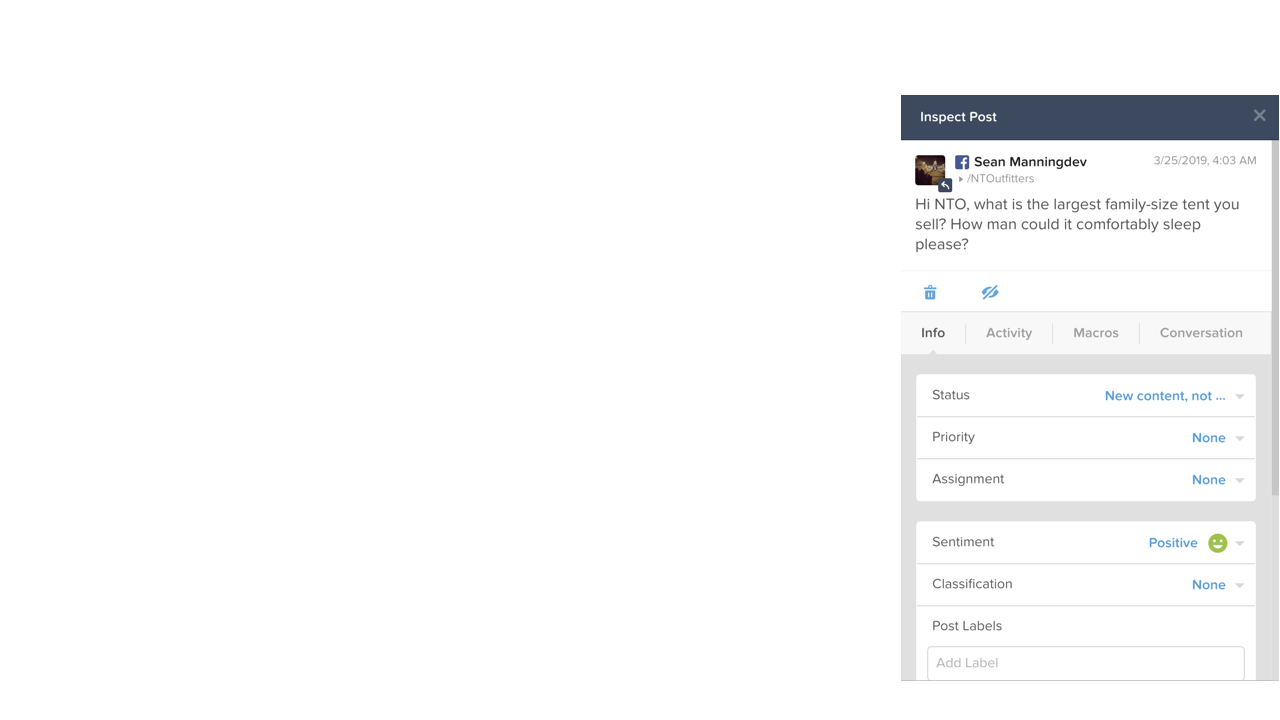
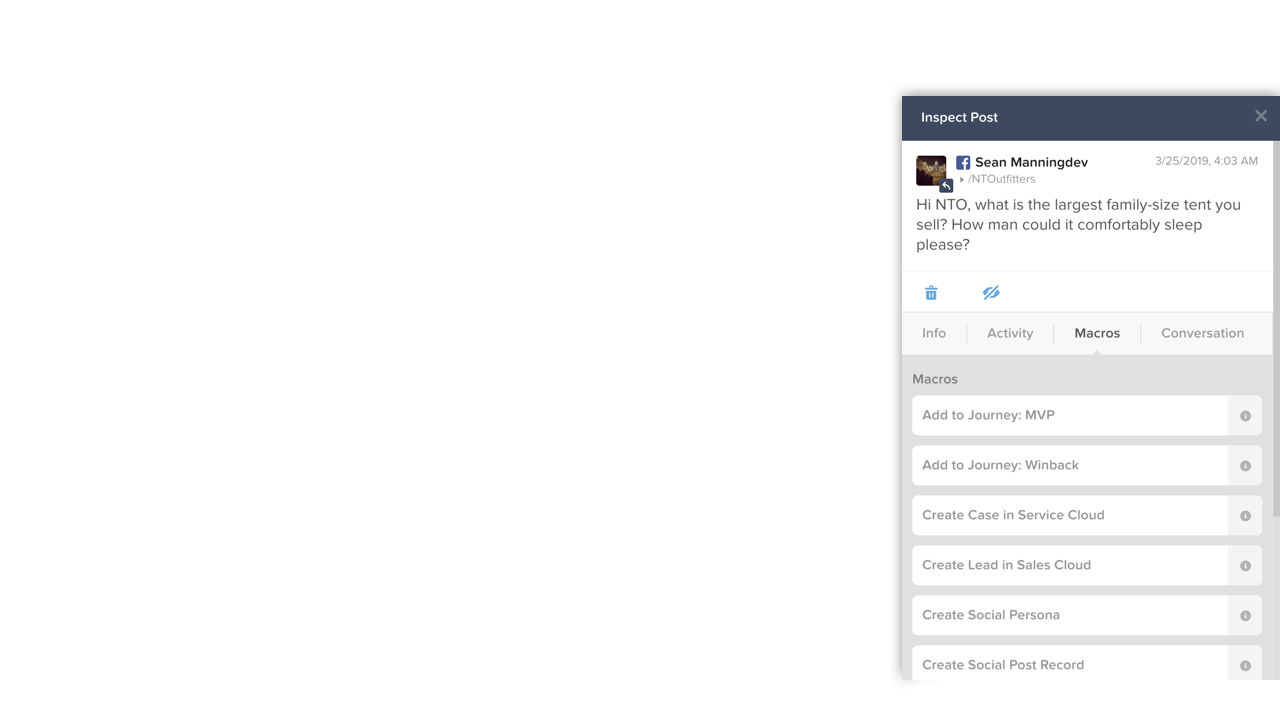
WIP

diff --git a/magick-flows-web-root/magick-flows/know/assets/styles.css b/magick-flows-web-root/magick-flows/know/assets/styles.css
@@ -1,7 +1,7 @@
 /* This is done to preload images and reduce load flicker */
 body::after {
   backface-visibility: visible;
-  content: url("/magick-flows/know/main/0000___ID=mc-homepage___NOTES=Notes-go-here__Separate-with-two-underscores__Do-not-use-spaces.png") url("/magick-flows/know/main/0500___ID=mc-homepage-social-hover___NOTES=Notes-go-here__Separate-with-two-underscores__Do-not-use-spaces.png") url("/magick-flows/know/main/1000___ID=social-analyze-dashboard___NOTES=Click-publish-to-go-to-calendar.png") url("/magick-flows/know/main/1500___ID=social-publish-calendar___NOTES=Click-Thursday-1pm-to-show-social-network-menu.png") url("/magick-flows/know/main/2000___ID=social-publish-post___NOTES=Choose-Facebook.png") url("/magick-flows/know/main/2500___ID=social-facebook-post___NOTES=Click-Post-to-input-field.png") url("/magick-flows/know/main/3000___ID=social-facebook-post___NOTES=Click-Facebook-from-dropdown.png") url("/magick-flows/know/main/3500___ID=social-facebook-post___NOTES=Click-into-main-text-area__Fake-content-will-appear.png") url("/magick-flows/know/main/3510___ID=social-facebook-post___NOTES=Click-Upload-Images.png") url("/magick-flows/know/main/4000___ID=social-facebook-post___DATA=show-drawer-from-top___NOTES=Choosing-an-image.png") url("/magick-flows/know/main/4500___ID=social-facebook-post-image-selected___NOTES=Click-Engage-from-blue-navbar.png") url("/magick-flows/know/main/5000___ID=social-engage___NOTES=Notes-go-here__Select-community-tab-in-footer.png") url("/magick-flows/know/main/5500___ID=social-engage-community___NOTES=Click-top-left-card__A-drawer-will-open.png") url("/magick-flows/know/main/6000___ID=social-engage-inspect___DATA=show-drawer-from-right___NOTES=Choose-Create-Case-in-Service-Cloud.png") url("/magick-flows/know/main/6500___ID=social-engage-macros___NOTES=Notes-go-here__Separate-with-two-underscores__Do-not-use-spaces.png") url("/magick-flows/know/assets/social-engage-inspect___drawer-from-right.png") url("/magick-flows/know/assets/social-facebook-post___drawer-from-top.png") url("/magick-flows/know/assets/social-facebook-post-image-to-choose.jpg");
+  content: url("/magick-flows/know/main/0000___ID=mc-homepage___NOTES=Notes-go-here__Separate-with-two-underscores__Do-not-use-spaces.png") url("/magick-flows/know/main/0500___ID=mc-homepage-social-hover___NOTES=Notes-go-here__Separate-with-two-underscores__Do-not-use-spaces.png") url("/magick-flows/know/main/1000___ID=social-analyze-dashboard___NOTES=Click-publish-to-go-to-calendar.png") url("/magick-flows/know/main/1500___ID=social-publish-calendar___NOTES=Click-Thursday-1pm-to-show-social-network-menu.png") url("/magick-flows/know/main/2000___ID=social-publish-post___NOTES=Choose-Facebook.png") url("/magick-flows/know/main/2500___ID=social-facebook-post___NOTES=Click-Post-to-input-field.png") url("/magick-flows/know/main/3000___ID=social-facebook-post___NOTES=Click-Facebook-from-dropdown.png") url("/magick-flows/know/main/3500___ID=social-facebook-post___NOTES=Click-into-main-text-area__Fake-content-will-appear.png") url("/magick-flows/know/main/3510___ID=social-facebook-post___NOTES=Click-Upload-Images.png") url("/magick-flows/know/main/4000___ID=social-facebook-post___DATA=show-drawer-from-top___NOTES=Choosing-an-image.png") url("/magick-flows/know/main/4500___ID=social-facebook-post-image-selected___NOTES=Click-Engage-from-blue-navbar.png") url("/magick-flows/know/main/5000___ID=social-engage___NOTES=Notes-go-here__Select-community-tab-in-footer.png") url("/magick-flows/know/main/5500___ID=social-engage-community___NOTES=Click-top-left-card__A-drawer-will-open.png") url("/magick-flows/know/main/6000___ID=social-engage-inspect___DATA=show-drawer-from-right___NOTES=Choose-Create-Case-in-Service-Cloud.png") url("/magick-flows/know/assets/social-engage-inspect___drawer-from-right.png") url("/magick-flows/know/assets/social-facebook-post___drawer-from-top.png") url("/magick-flows/know/assets/social-facebook-post-image-to-choose.jpg");
   outline: 1px solid red;
   height: 0;
   overflow: hidden;
@@ -137,7 +137,7 @@ body, .container {
   position: absolute;
   top: 0;
   transition: 400ms transform, 800ms left;
-  width: 37120px;
+  width: 34560px;
 }
 
 .app-switcher-one.shrink {
@@ -437,24 +437,6 @@ body, .container {
   top: 0;
   width: 1280px;
   left: 35840px;
-}
-
-.app-switcher-one.be-left-15 {
-  left: -38400px;
-  transition: none !important;
-  will-change: transform, left;
-}
-
-.app-switcher-one.slide-left-15 {
-  left: -38400px;
-}
-
-.magick-flows--slide-15 {
-  height: 720px;
-  position: absolute;
-  top: 0;
-  width: 1280px;
-  left: 38400px;
 }
 
 footer.magick-flows-stickey-footer_container {

diff --git a/magick-flows-web-root/magick-flows/know/assets/variables.scss b/magick-flows-web-root/magick-flows/know/assets/variables.scss
@@ -1,4 +1,4 @@
-$numberOfSlides: 15;
+$numberOfSlides: 14;
 $preloadImagesData: url('/magick-flows/know/main/0000___ID=mc-homepage___NOTES=Notes-go-here__Separate-with-two-underscores__Do-not-use-spaces.png')
 		url('/magick-flows/know/main/0500___ID=mc-homepage-social-hover___NOTES=Notes-go-here__Separate-with-two-underscores__Do-not-use-spaces.png')
 		url('/magick-flows/know/main/1000___ID=social-analyze-dashboard___NOTES=Click-publish-to-go-to-calendar.png')
@@ -13,7 +13,6 @@ $preloadImagesData: url('/magick-flows/know/main/0000___ID=mc-homepage___NOTES=N
 		url('/magick-flows/know/main/5000___ID=social-engage___NOTES=Notes-go-here__Select-community-tab-in-footer.png')
 		url('/magick-flows/know/main/5500___ID=social-engage-community___NOTES=Click-top-left-card__A-drawer-will-open.png')
 		url('/magick-flows/know/main/6000___ID=social-engage-inspect___DATA=show-drawer-from-right___NOTES=Choose-Create-Case-in-Service-Cloud.png')
-		url('/magick-flows/know/main/6500___ID=social-engage-macros___NOTES=Notes-go-here__Separate-with-two-underscores__Do-not-use-spaces.png')
 		url('/magick-flows/know/assets/social-engage-inspect___drawer-from-right.png')
 		url('/magick-flows/know/assets/social-facebook-post___drawer-from-top.png')
 		url('/magick-flows/know/assets/social-facebook-post-image-to-choose.jpg');
